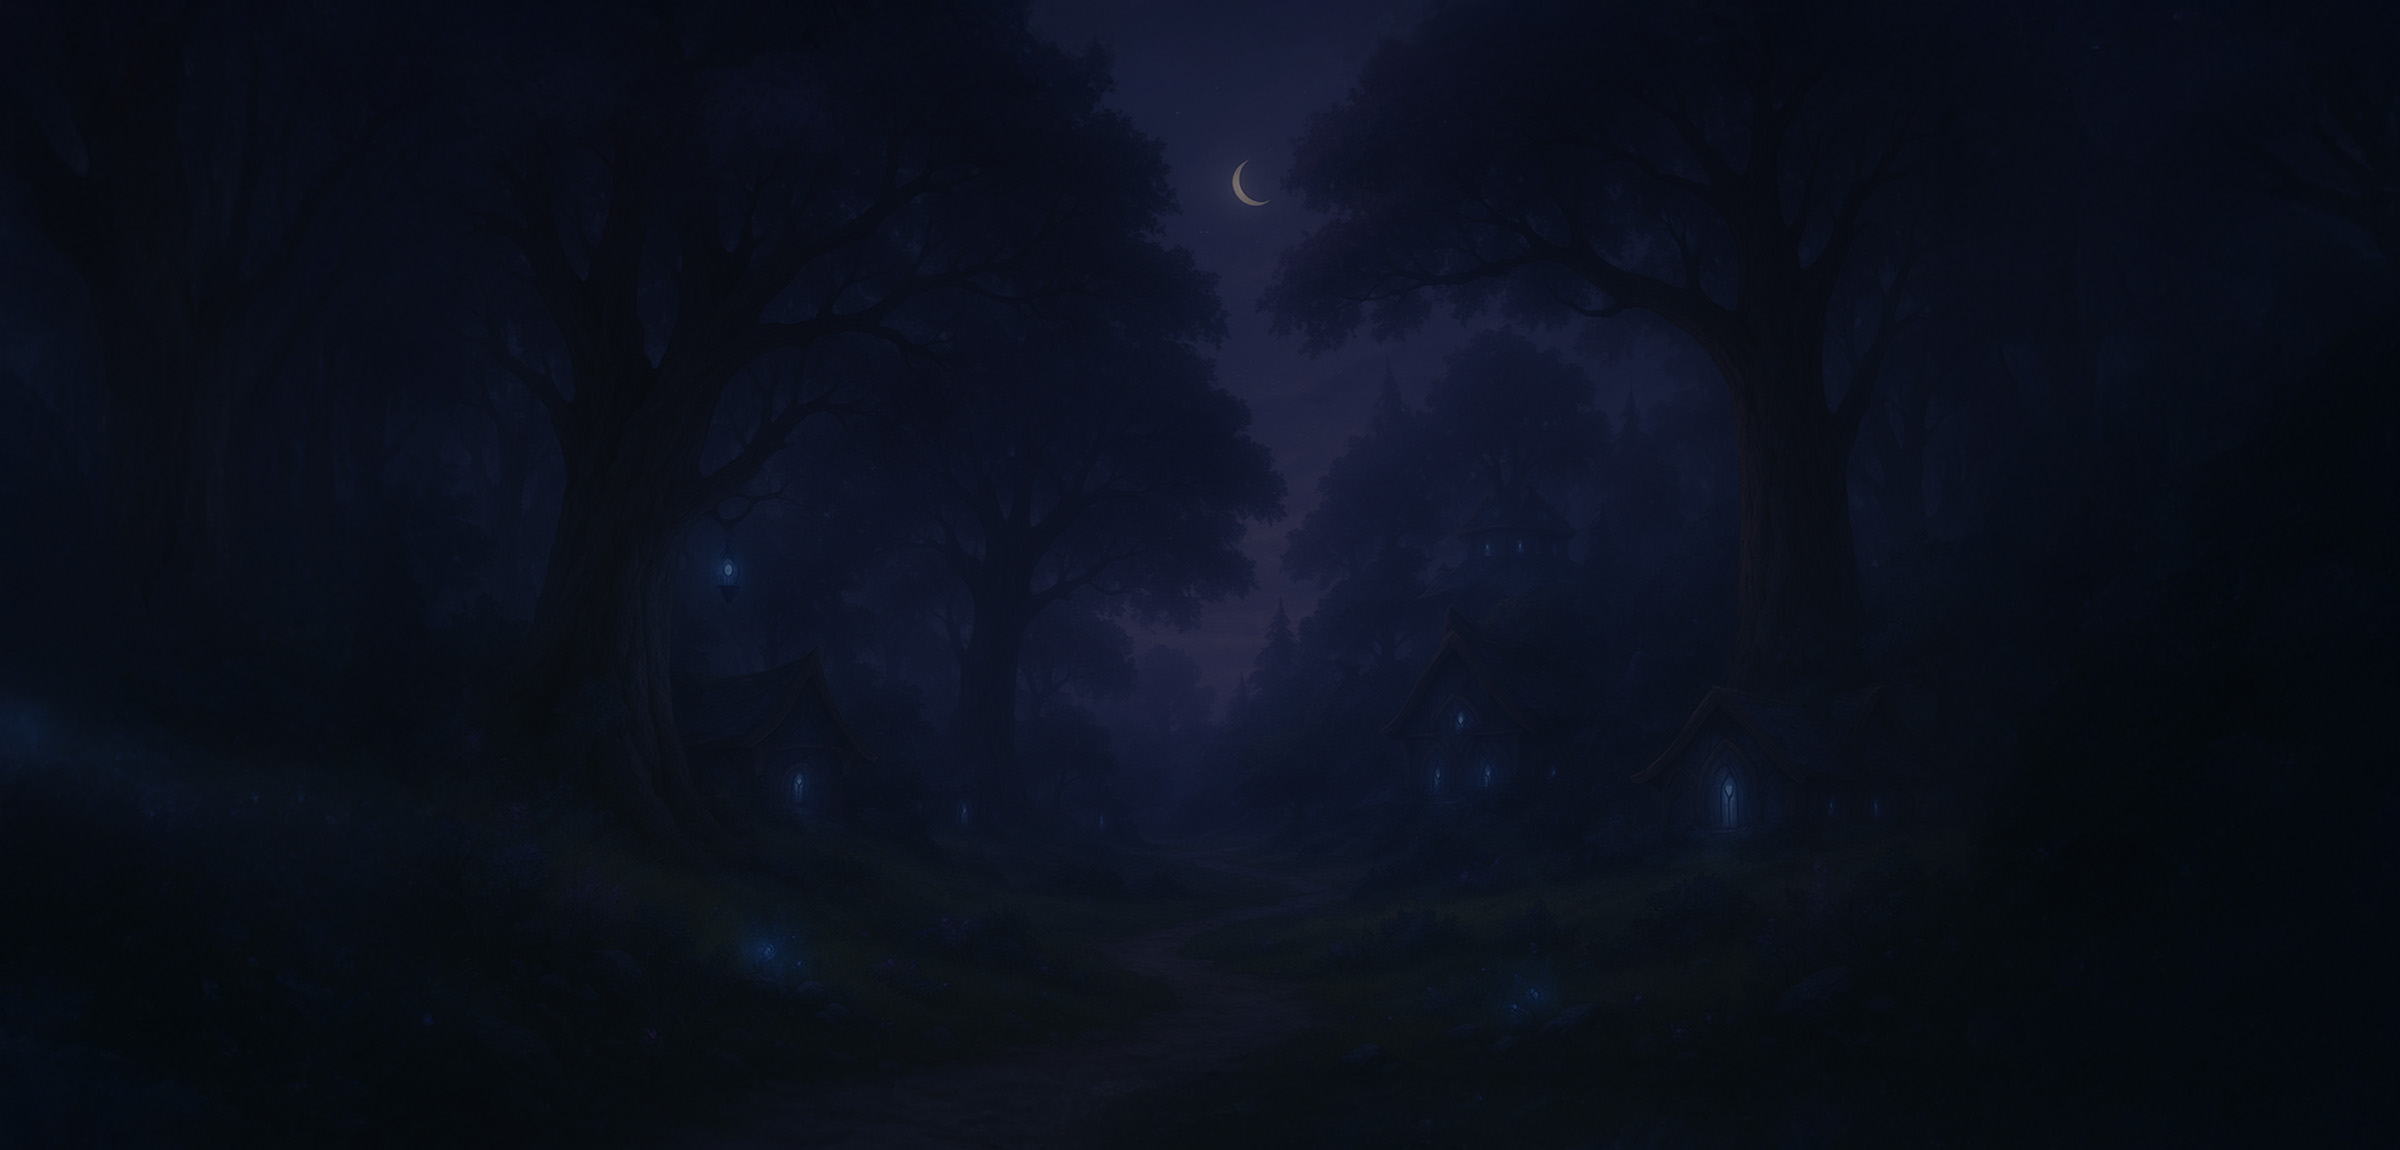
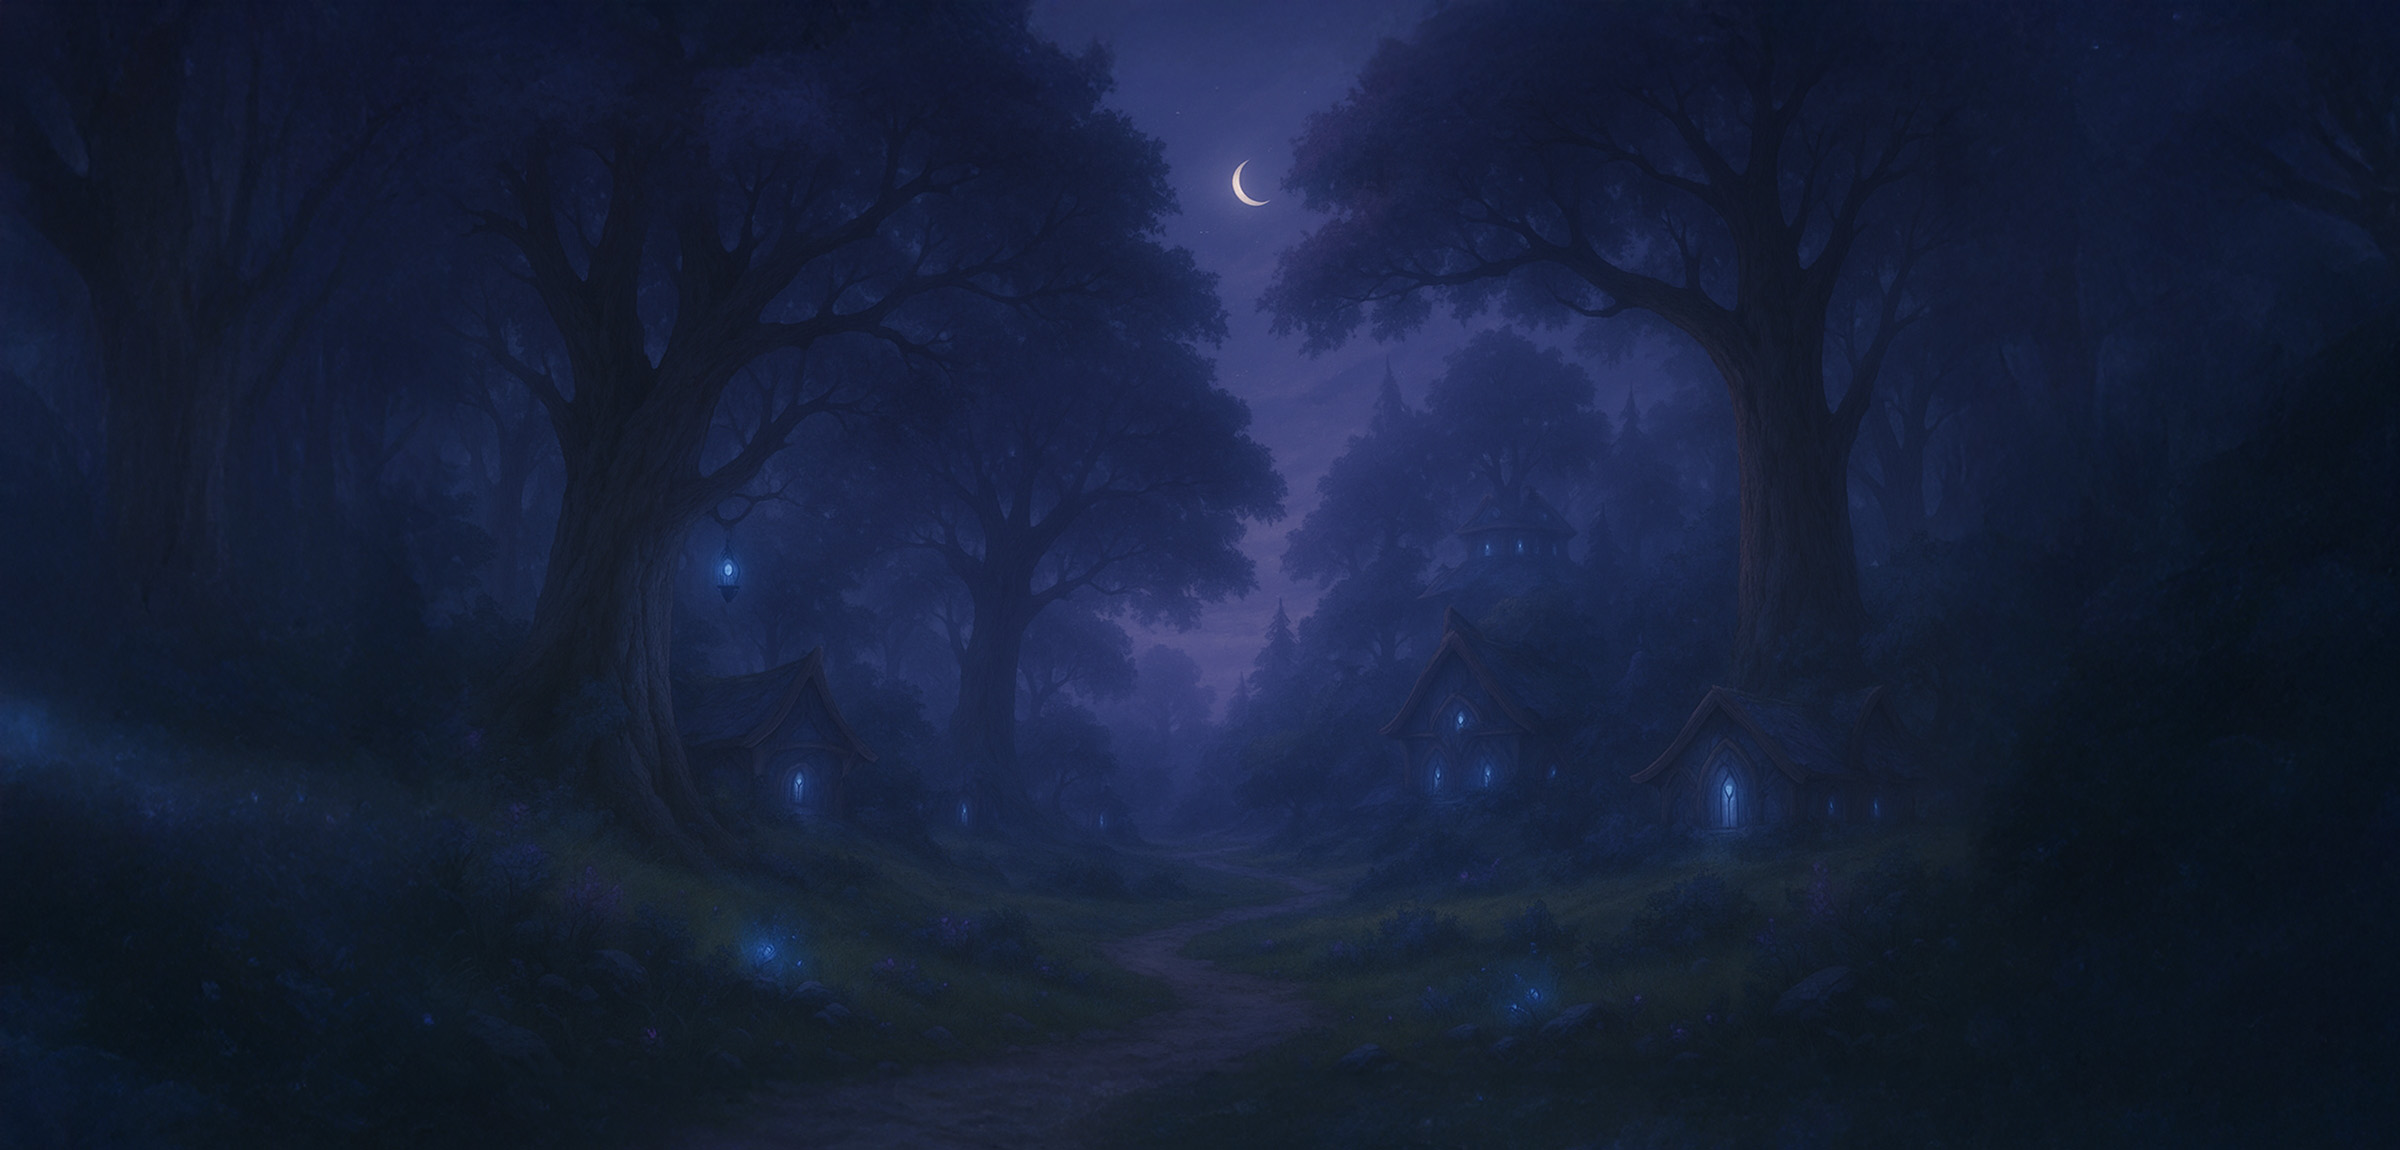
Update README with new features and architecture
- Document character details page (replaces modal)
- Add background rotation feature
- Update project structure with new files
- Document 2-column equipment grid layout
- Add viewport-constrained layout details
- Update visual polish section with animations

🤖 Generated with [Claude Code](https://claude.com/claude-code)

diff --git a/src/scripts/main.js b/src/scripts/main.js
@@ -10,15 +10,25 @@ console.log('⚡ Guild Site initialized');
 document.addEventListener('DOMContentLoaded', async () => {
   // Initialize background rotator
   const backgroundImages = [
-    'img/bgs/bg-faction.jpg',
     'img/bgs/bg-mulgore.jpg',
     'img/bgs/bg-tglades.jpg',
     'img/bgs/bg-eversong.jpg',
-    'img/bgs/bg-shadowglen.jpg'
+    'img/bgs/bg-shadowglen.jpg',
+    'img/bgs/bg-suramar.jpg',
+    'img/bgs/bg-echoisles.jpg',
+    'img/bgs/bg-freach.jpg',
+    'img/bgs/bg-dmorogh.jpg',
+    'img/bgs/bg-goldshire.jpg',
+    'img/bgs/bg-azuremyst.jpg',
+    'img/bgs/bg-gilneas.jpg',
+    'img/bgs/bg-wisle.jpg',
+    'img/bgs/bg-durotar.jpg',
+    'img/bgs/bg-kezan.jpg'
   ];
 
   const bgRotator = new BackgroundRotator(backgroundImages, 8000, 2000);
   bgRotator.init();
+
   // Set dynamic realm name in header
   const subtitleElement = document.querySelector('.subtitle');
   if (subtitleElement) {

diff --git a/src/styles/main.scss b/src/styles/main.scss
@@ -375,7 +375,6 @@ body {
 
 .member-card {
   background: rgba(0, 0, 0, 0.5);
-  overflow: hidden;
   cursor: pointer;
   transition: var(--transition);
   position: relative;
@@ -383,8 +382,17 @@ body {
 
   .member-level{
     position: absolute;
-    top:10px; left:10px;
+    top:10px; right:10px;
     z-index: 10;
+    height: 30px; width: 30px;
+    border-radius: 50%;
+    background: rgba(black, 0.5);
+    font-size: 10px;
+    display: flex;
+    justify-content: center;
+    align-items: center;
+    //border: 1px dashed rgba(white, 1);
+    text-align: center;
   }
 
   &:hover {
@@ -757,7 +765,7 @@ body {
 
     .equipment-grid {
       display: grid;
-      grid-template-columns: repeat(2, 1fr);
+      grid-template-columns: repeat(5, 1fr);
       gap: var(--spacing-sm);
       flex: 1;
       overflow-y: auto;

diff --git a/README.md b/README.md
@@ -22,20 +22,35 @@ A World of Warcraft guild roster website powered by the Battle.net API, showing 
 - Responsive grid layout for all screen sizes
 - Smart filtering - automatically excludes invalid characters (404s)
 
-### Character Details Modal
-- Click any character card to view detailed information
+### Character Details Page
+- Click any character card to navigate to dedicated details page
+- **Back button** to return to roster
+- **Full viewport layout** - no page scrolling, content fits in view
 - Full character render (main-raw) with transparent background
 - Level, class, race, gender, realm, and active specialization
 - Accurate item level from Battle.net API
 - Achievement points
-- Full equipment grid with item thumbnails
+- **2-column equipment grid** with vertical card layout
+- Equipment displayed as compact cards with:
+  - Item icon with quality-colored border
+  - Slot name
+  - Item name with quality color
+  - Item level
 - WoW-style item tooltips showing stats, sockets, and quality
 - **Interactive character carousel** - browse all guild members
-- Keyboard navigation (arrow keys) to switch between characters
-- Auto-centering on selected character
+- Click any carousel character to instantly switch to their page
+- Auto-scroll to center active character
 
 ### Visual Polish
-- TBA
+- **Rotating background images** with smooth fade transitions
+- Custom background image set with 8-second rotation
+- Smooth 2-second fade between backgrounds
+- Background rotator on both roster and details pages
+- Dark theme optimized for readability
+- Class-colored accents throughout
+- Responsive grid layouts
+- Custom styled scrollbars
+- Hover animations and transitions
 
 ### Performance
 - Smart caching system (LocalStorage with TTL)
@@ -60,6 +75,11 @@ src/
 │   ├── fonts/                      # Empty (removed custom fonts)
 │   └── icons/                      # Local placeholders only
 ├── img/
+│   ├── bgs/                        # Background images for rotation
+│   │   ├── bg-faction.jpg
+│   │   ├── bg-mulgore.jpg
+│   │   ├── bg-tglades.jpg
+│   │   └── bg-eversong.jpg
 │   ├── logo.png                    # Guild logo
 │   └── placeholder.png             # Fallback placeholder
 ├── scripts/
@@ -71,17 +91,20 @@ src/
 │   │   ├── guild-service.js        # Guild roster management
 │   │   └── character-service.js    # Character profile/equipment data
 │   ├── components/
-│   │   └── guild-roster.js         # Roster UI, modals, equipment display
+│   │   ├── guild-roster.js         # Roster UI component
+│   │   └── background-rotator.js   # Background image rotation
 │   ├── utils/
 │   │   ├── wow-constants.js        # Class colors and names
 │   │   ├── wow-icons.js            # Wowhead CDN icon URLs
 │   │   ├── item-quality.js         # Item quality colors and slots
 │   │   └── helpers.js              # Utility functions
 │   ├── config.js                   # API configuration (auto-detects environment)
-│   └── main.js                     # App initialization
+│   ├── main.js                     # Roster page initialization
+│   └── character-details.js        # Character details page
 ├── styles/
 │   └── main.scss                   # Complete WoW-themed styles
-└── index.html                      # Main HTML page
+├── index.html                      # Main roster page
+└── character-details.html          # Character details page
 ```
 
 ## Setup
@@ -194,22 +217,27 @@ Each character card displays:
    - Faction icon + Faction name (Alliance/Horde)
    - la-shield-alt icon + Item level (from character profile API)
 
-### Equipment Display (Modal)
-When clicking a character:
-1. Fetches character profile, equipment, specializations, and media
-2. Displays full character render (main-raw asset with transparent background)
-3. Equipment grid with 16+ item slots
-4. Item thumbnails loaded from Battle.net media endpoints with authentication
-5. Each item shows:
+### Equipment Display (Character Details Page)
+When clicking a character card:
+1. Navigates to dedicated character details page
+2. Fetches character profile, equipment, specializations, and media
+3. Displays full character render (main-raw asset with transparent background)
+4. **2-column grid layout** with vertical equipment cards
+5. Equipment grid with 16+ item slots
+6. Item thumbnails loaded from Battle.net media endpoints with authentication
+7. Each item card shows:
+   - Item icon at top
    - Quality-colored border (grey/green/blue/purple/orange)
+   - Slot name
+   - Item name (with ellipsis for long names)
    - Item level (iLvl)
-   - Slot name (Head, Chest, Weapon, etc.)
-6. Hover tooltips show:
+8. Hover tooltips show:
    - Item stats
    - Sockets and gems
    - Durability
    - Binding type
    - Required level
+9. **Viewport-constrained layout** - no page scrolling, panels scroll independently
 
 ### Caching Strategy
 - **Guild roster**: 10 minutes (reduces frequent roster checks)
